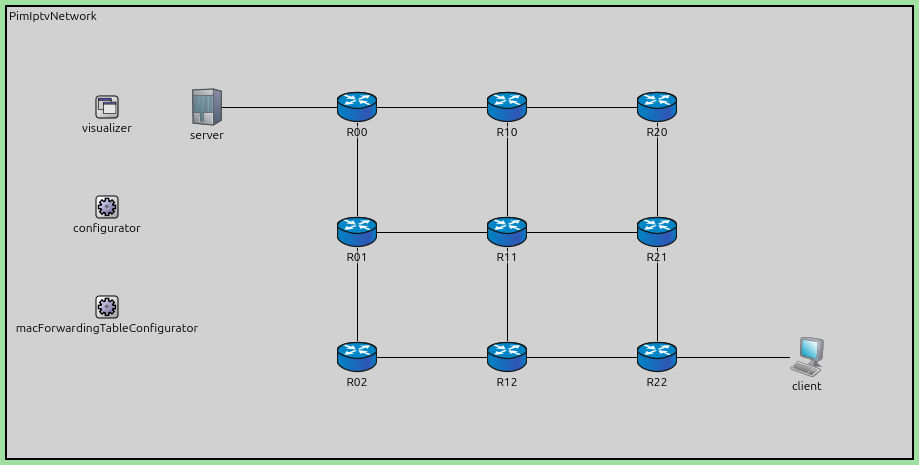
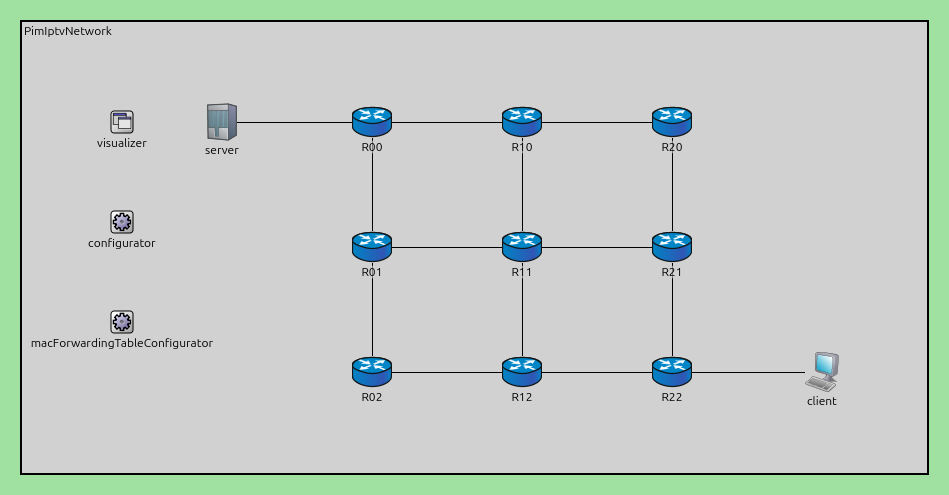
pim2 showcase: fix topology, RP config, prune/graft demo, regenerate screenshots
- Add R0 between source and R1 to make Register/Register-Stop visible in PIM-SM
- PIM-DM: receiver2 joins at 50s to demonstrate prune (t=10s) and graft (t=50s)
- PIM-SM: configure RP address via configurator XML instead of routerId
  (routerId does not generate routable addresses; loopback needs explicit config)
- IPTV: same RP config fix for R10
- Remove redundant networkConfig.xml
- Rewrite doc/index.rst: define RPF and designated router, explain RP address
  assignment, correct IPTV traffic description, fix misleading claims
- Regenerate PimShowcaseNetwork.png and PimIptvNetwork.png with new topology

diff --git a/showcases/routing/pim2/doc/index.rst b/showcases/routing/pim2/doc/index.rst
@@ -32,20 +32,19 @@ pattern:
   branches that have no interested receivers send Prune messages back upstream
   to stop receiving the traffic. If a previously pruned host wants to rejoin,
   its router can send a *Graft* message for immediate re-attachment without
-  waiting for the prune timer to expire. PIM-DM also supports *State Refresh*
-  messages to maintain prune state without periodic re-flooding. PIM-DM is
-  defined in RFC 3973.
+  waiting for the prune timer to expire. PIM-DM is defined in RFC 3973.
 
 - **PIM Sparse Mode (PIM-SM)** assumes receivers are sparsely distributed and
   uses an explicit join model. A special router called the *Rendezvous Point
   (RP)* serves as the root of a shared multicast distribution tree. Receivers
   send Join messages towards the RP to receive traffic. When a source starts
-  sending, its first-hop router encapsulates multicast packets in PIM *Register*
-  messages and unicasts them to the RP. The RP decapsulates these packets and
-  forwards them down the shared tree, while simultaneously sending an (S,G) Join
-  towards the source to establish native multicast forwarding. Once native
-  forwarding is established, the RP sends a *Register-Stop* to the source's
-  first-hop router. PIM-SM is defined in RFC 4601.
+  sending, its first-hop router (called the *designated router* or DR — the
+  router directly connected to the source's network) encapsulates multicast
+  packets in PIM *Register* messages and unicasts them to the RP. The RP
+  decapsulates these packets and forwards them down the shared tree, while
+  simultaneously sending an (S,G) Join towards the source to establish native
+  multicast forwarding. Once native forwarding is established, the RP sends a
+  *Register-Stop* to the source's DR. PIM-SM is defined in RFC 4601.
 
 The Model
 ---------
@@ -53,9 +52,10 @@ The Model
 We use two network topologies in this showcase. The first, ``PimShowcaseNetwork``,
 is a simple tree topology used for both the PIM-DM and PIM-SM configurations.
 A :ned:`StandardHost` (``source``) sends UDP multicast traffic to the group
-address ``239.1.1.1`` through three :ned:`MulticastRouter` nodes (R1–R3) to two
-receivers. The receivers run :ned:`UdpSink` applications configured to join this
-multicast group.
+address ``239.1.1.1`` through four :ned:`MulticastRouter` nodes (R0–R3) to two
+receivers. R0 is the source's directly connected router, R1 is the tree root,
+and R2/R3 branch towards the receivers. The receivers run :ned:`UdpSink`
+applications configured to join this multicast group.
 
 .. figure:: media/PimShowcaseNetwork.png
 
@@ -65,10 +65,14 @@ The second network, ``PimIptvNetwork``, models a more realistic scenario. Nine
 
 .. figure:: media/PimIptvNetwork.png
 
-Both networks extend :ned:`WiredNetworkBase` (which inherits an
-:ned:`Ipv4NetworkConfigurator` from :ned:`NetworkBase`). The configurator assigns
-IP addresses and populates static unicast routes, which PIM uses for Reverse
-Path Forwarding (RPF) checks. All routers are :ned:`MulticastRouter` nodes —
+Both networks extend :ned:`WiredNetworkBase` (which provides an
+:ned:`Ipv4NetworkConfigurator`). The configurator automatically assigns IP
+addresses and populates static unicast routes. PIM needs these unicast routes for
+*Reverse Path Forwarding (RPF) checks* — when a multicast packet arrives at a
+router, PIM verifies that it arrived on the interface that the unicast routing
+table considers the shortest path back towards the source (or the RP, for shared
+trees). This check prevents forwarding loops and ensures packets travel along the
+correct distribution tree. All routers are :ned:`MulticastRouter` nodes —
 :ned:`Router` nodes with PIM enabled (``hasPim = true``) and multicast forwarding
 turned on by default.
 
@@ -94,35 +98,45 @@ an XML string that specifies which mode to use:
    **.pimConfig = xml("<config><interface mode='sparse'/></config>")
 
 For PIM-SM, the Rendezvous Point must also be configured by setting the ``RP``
-parameter of the :ned:`PimSm` module to an IP address that is assigned to one of
-the RP router's interfaces. The RP router identifies itself by checking whether
-the configured RP address is local to one of its interfaces. A convenient way to
-achieve this is to set the router's ``routerId`` to the desired RP address — this
-causes the address to be assigned to the router's loopback interface:
+parameter of the :ned:`PimSm` module to an IP address belonging to the designated
+RP router. The RP router identifies itself by checking whether the configured RP
+address is local to one of its interfaces. A convenient way to assign a
+well-known address is to configure the RP router's loopback interface in the
+:ned:`Ipv4NetworkConfigurator` XML — the configurator will then generate routes
+to it from all other routers:
 
 .. code-block:: ini
 
-   **.R1.**.routerId = "10.0.0.1"
-   **.pim.pimSM.RP = "10.0.0.1"
+   **.configurator.config = xml("<config>..." \
+       "<interface hosts='R1' names='lo0' address='10.99.0.1' netmask='255.255.255.255'/>" \
+       "...</config>")
+   **.pim.pimSM.RP = "10.99.0.1"
 
 PIM-DM Configuration
 ~~~~~~~~~~~~~~~~~~~~~
 
 The ``PimDm`` configuration uses the ``PimShowcaseNetwork`` with PIM operating
-in Dense Mode. Both receivers join the multicast group at simulation time 5s,
-and the source begins sending at 10s.
+in Dense Mode. ``receiver1`` joins the multicast group at 5s, while ``receiver2``
+joins later at 50s. The source begins sending at 10s.
 
 .. literalinclude:: ../omnetpp.ini
    :language: ini
    :start-at: [Config PimDm]
    :end-before: [Config PimSm]
 
-Since PIM-DM uses flood-and-prune, the multicast traffic is initially forwarded
-to all router interfaces. Routers connected to networks with no group members
-send Prune messages upstream. In this configuration, both receivers are present,
-so no branches are pruned and the traffic flows through all three routers to both
-receivers. PIM Hello messages are exchanged periodically between all neighboring
-routers to maintain adjacency.
+This configuration demonstrates all three key PIM-DM behaviors:
+
+1. **Flood**: When the source starts sending at 10s, multicast packets are
+   flooded to all downstream router interfaces. R0 forwards to R1, and R1 floods
+   to both R2 and R3.
+
+2. **Prune**: Since ``receiver2`` has not yet joined the group, R3 has no
+   downstream members. R3 sends a Prune message upstream to R1, which stops
+   forwarding traffic towards R3. Only ``receiver1`` (via R2) receives the stream.
+
+3. **Graft**: At 50s, ``receiver2`` joins the multicast group. R3 detects the
+   new local member (via IGMP) and sends a Graft message to R1. R1 resumes
+   forwarding to R3, and ``receiver2`` begins receiving the stream immediately.
 
 PIM-SM Configuration
 ~~~~~~~~~~~~~~~~~~~~~
@@ -135,14 +149,26 @@ Sparse Mode. Router ``R1`` is configured as the Rendezvous Point.
    :start-at: [Config PimSm]
    :end-before: [Config Iptv]
 
-In PIM-SM, no traffic flows until a receiver explicitly joins. When ``receiver1``
-starts at 5s, its designated router (R2) sends a (*,G) Join message towards the
-RP (R1). When the source starts sending at 10s, its first-hop router (also R1 in
-this topology) receives the multicast packets and — since R1 is itself the RP —
-immediately forwards them down the shared tree to ``receiver1``.
+In PIM-SM, no traffic flows until a receiver explicitly joins. The sequence of
+events is:
 
-When ``receiver2`` joins at 30s, its designated router (R3) also sends a Join to
-the RP, extending the shared tree to include that branch as well.
+1. At 5s, ``receiver1`` joins the multicast group. Its directly connected router
+   R2 (acting as the *designated router* for that LAN — the router responsible
+   for forwarding multicast to/from the segment) sends a (*,G) Join message
+   towards the RP (R1). This builds the shared tree branch R1→R2.
+
+2. At 10s, the source starts sending. Its designated router R0 receives the
+   multicast packets but has no direct path to receivers. R0 encapsulates each
+   packet in a PIM *Register* message and unicasts it to the RP (R1). R1
+   decapsulates the packet and forwards it down the shared tree to ``receiver1``.
+
+3. Simultaneously, R1 sends an (S,G) Join towards the source (to R0) to
+   establish native multicast forwarding on the path source→R0→R1. Once this
+   path is active, R1 sends a *Register-Stop* to R0, which stops the
+   encapsulation overhead.
+
+4. At 30s, ``receiver2`` joins. Its designated router R3 sends a (*,G) Join to
+   R1, extending the shared tree to include the R1→R3 branch.
 
 IPTV Configuration
 ~~~~~~~~~~~~~~~~~~
@@ -155,14 +181,16 @@ IPTV server at one corner and a client at the opposite corner.
    :start-at: [Config Iptv]
 
 The :ned:`Ipv4NetworkConfigurator` automatically populates the unicast routing
-tables, which PIM then uses to determine the shortest path towards the RP and to
-build the multicast distribution tree.
+tables, which PIM then uses for RPF checks to determine the shortest path
+towards the RP and to build the multicast distribution tree.
 
 The IPTV server sends high-rate multicast traffic (one 1000-byte packet every
-40ms, simulating a ~200 kbps video stream) starting at 25s. The client joins
-the multicast group at 30s. At that point, the client's designated router sends
-a (*,G) Join towards the RP (R10), and once the shared tree is established, the
-client begins receiving the stream.
+40ms, i.e. 25 packets/s) starting at 25s. The client joins the multicast group
+at 30s. At that point, R22 (the client's designated router) sends a (*,G) Join
+towards the RP (R10). The join propagates through the grid, and the multicast
+tree is established along the shortest path from the server's corner (R00)
+through the RP (R10) to the client's corner (R22). Once the tree is built,
+the client begins receiving the stream.
 
 Results
 -------
@@ -170,22 +198,23 @@ Results
 After running each configuration, the simulation produces result files that can
 be analyzed in the OMNeT++ IDE. Key observations:
 
-- **PIM-DM**: Multicast traffic reaches both receivers immediately after the
-  source starts sending at 10s, as PIM-DM floods traffic to all branches by
-  default. Both receivers receive all 80 packets sent during the simulation.
-  PIM Hello messages are exchanged periodically between all neighboring routers.
+- **PIM-DM**: ``receiver1`` receives all 80 packets sent between 10–90s.
+  ``receiver2`` joins at 50s and receives approximately 40 packets (from 50s
+  onward). Between 10–50s, the R3 branch is in the pruned state — no multicast
+  traffic is forwarded towards ``receiver2``. The Graft message from R3 at 50s
+  restores the flow.
 
-- **PIM-SM**: Traffic only flows to a receiver after it has joined the group.
-  ``receiver1`` gets traffic from 10s onward (it joined at 5s, source starts
-  at 10s) and receives all 80 packets. ``receiver2`` starts receiving after 30s
-  when it joins the group, receiving 60 packets. PIM Register, Join/Prune, and
-  Hello messages can be observed in the logs.
+- **PIM-SM**: ``receiver1`` gets traffic from 10s onward (it joined at 5s,
+  source starts at 10s) and receives all 80 packets. ``receiver2`` starts
+  receiving at 30s when it joins the group, receiving 60 packets. PIM Register
+  messages from R0 to R1 can be observed in the event log at 10s, followed by a
+  Register-Stop once the (S,G) state is established.
 
-- **IPTV**: The IPTV server starts streaming at 25s (750 packets total at 25
-  packets/s). The client joins at 30s and receives 625 packets — missing those
-  sent during the 5s before its Join propagated through the network. The
-  multicast stream traverses the grid of routers from the server's corner to the
-  client's corner via the shared tree rooted at R10.
+- **IPTV**: The IPTV server sends 750 packets total (25 packets/s for 30s). The
+  client joins at 30s — 5s after the source starts at 25s — and receives 625
+  packets. The 125 missing packets correspond exactly to the 5s window between
+  the source starting and the client's group membership being established (the
+  client simply had not joined yet during that interval).
 
 Sources: :download:`omnetpp.ini <../omnetpp.ini>`, :download:`PimShowcase.ned <../PimShowcase.ned>`
 